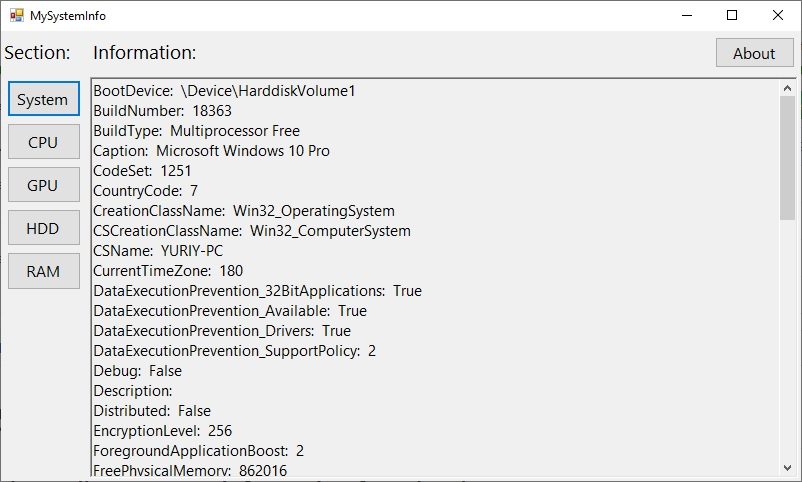
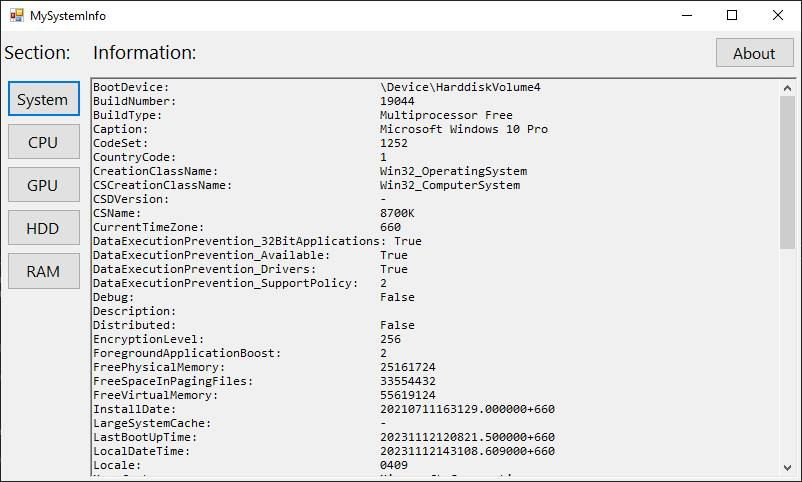
fix textbox padding

diff --git a/InfoUtil.cs b/InfoUtil.cs
@@ -62,8 +62,15 @@ namespace MySystemInfo
                     {
                         try
                         {
-                            StringBuilder1.AppendLine(property.Name + ":  " +
-                                                      obj.Properties[property.Name].Value.ToString());
+                            if (obj.Properties[property.Name].Value != null) // To stop exception
+                            {
+                                StringBuilder1.AppendLine((property.Name + ": ").PadRight(41) +
+                                                          obj.Properties[property.Name].Value.ToString());
+                            }
+                            else
+                            {
+                                StringBuilder1.AppendLine((property.Name + ": ").PadRight(41) + "-");
+                            }
                         }
                         catch
                         {

diff --git a/MainForm.Designer.cs b/MainForm.Designer.cs
@@ -167,9 +167,8 @@ namespace MySystemInfo
             // 
             this.textBox1.AcceptsTab = true;
             this.textBox1.Dock = System.Windows.Forms.DockStyle.Fill;
-            this.textBox1.Font = new System.Drawing.Font("Segoe UI", 11.25F, System.Drawing.FontStyle.Regular,
-                System.Drawing.GraphicsUnit.Point, ((byte) (204)));
             this.textBox1.Location = new System.Drawing.Point(103, 53);
+            this.textBox1.Font = new System.Drawing.Font("Consolas", 9F);
             this.textBox1.Name = "textBox1";
             this.textBox1.ReadOnly = true;
             this.textBox1.Size = new System.Drawing.Size(827, 463);

diff --git a/MainForm.cs b/MainForm.cs
@@ -17,6 +17,7 @@ namespace MySystemInfo
         {
             InitializeComponent();
             
+            textBox1.SelectionTabs = new int[] { 200, 300 };
             textBox1.Text = Resources.MainForm_Loading;
             textBox1.Text = InfoUtil.GetOsInformation();
         }
